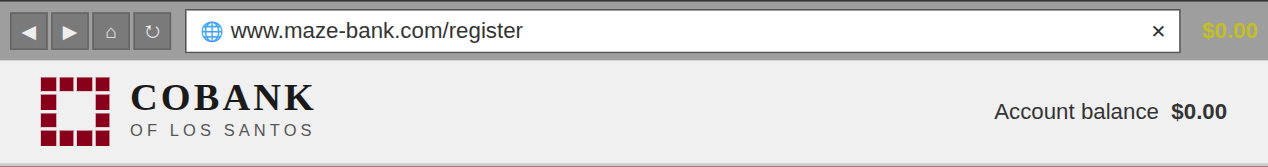
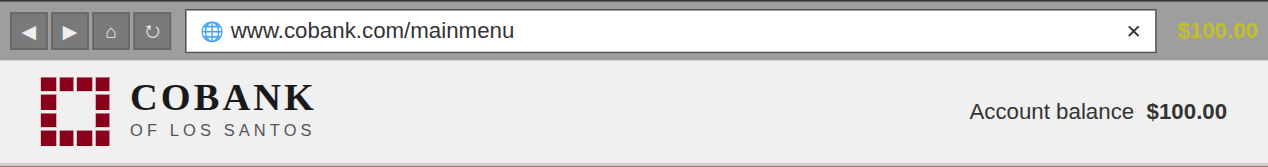
fix: spelling on README's image url

Changed region(s): [[0.2153, 0.1497, 0.4306, 0.2695], [0.892, 0.0599, 0.9535, 0.3293], [0.7689, 0.6287, 0.9535, 0.7186]]

diff --git a/front/src/components/Header.jsx b/front/src/components/Header.jsx
@@ -48,7 +48,7 @@ export default function Header({ balance, username, fmt, url }) {
           fontSize: 13, color: '#333', margin: '0 4px', display: 'flex', alignItems: 'center', gap: 4
         }}>
           <span style={{ color: '#aaa', fontSize: 11 }}>🌐</span>
-          www.maze-bank.com/{url}
+          www.cobank.com/{url}
           <span style={{ marginLeft: 'auto', color: '#http://localhost:3000/mainmenuaaa', fontSize: 11, cursor: 'pointer' }}>✕</span>
         </div>
         <div style={{ color: '#c8b400', fontWeight: 'bold', fontSize: 13, marginLeft: 4 }}>
